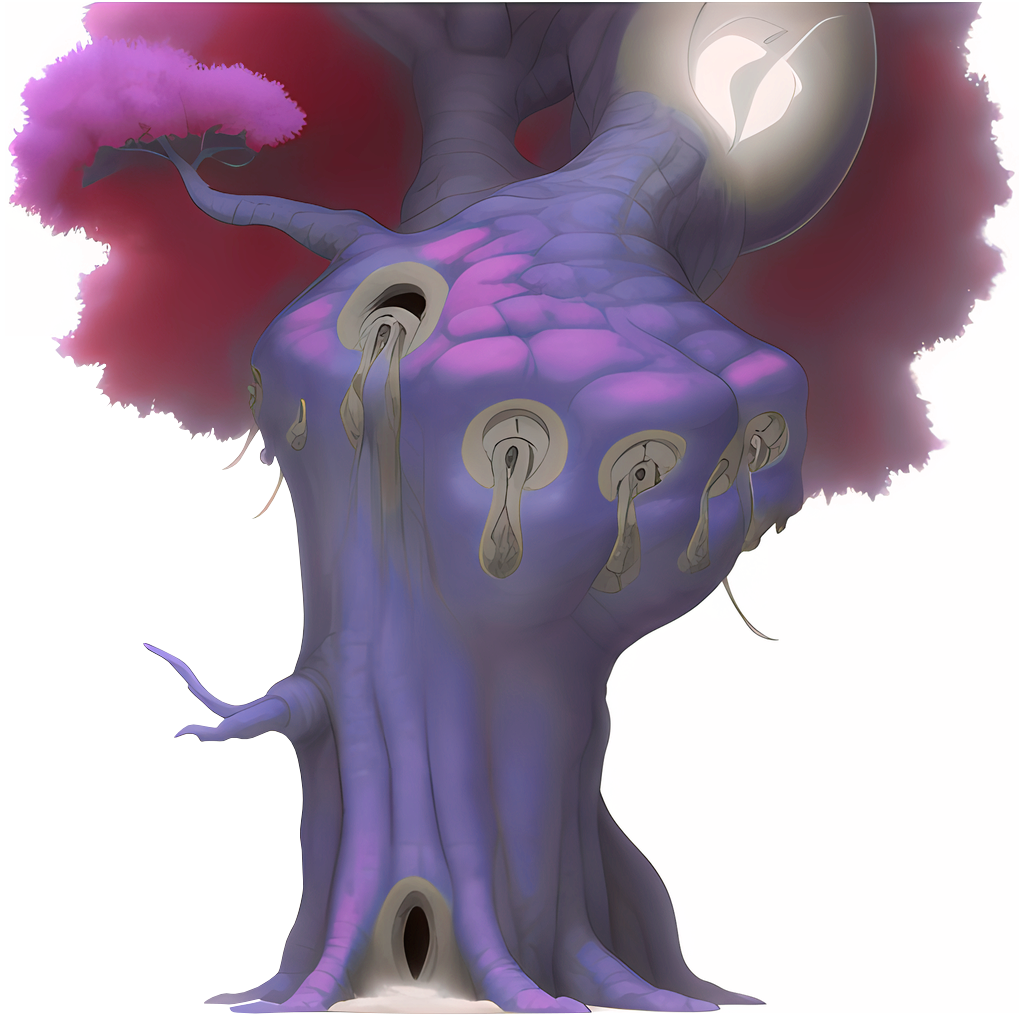
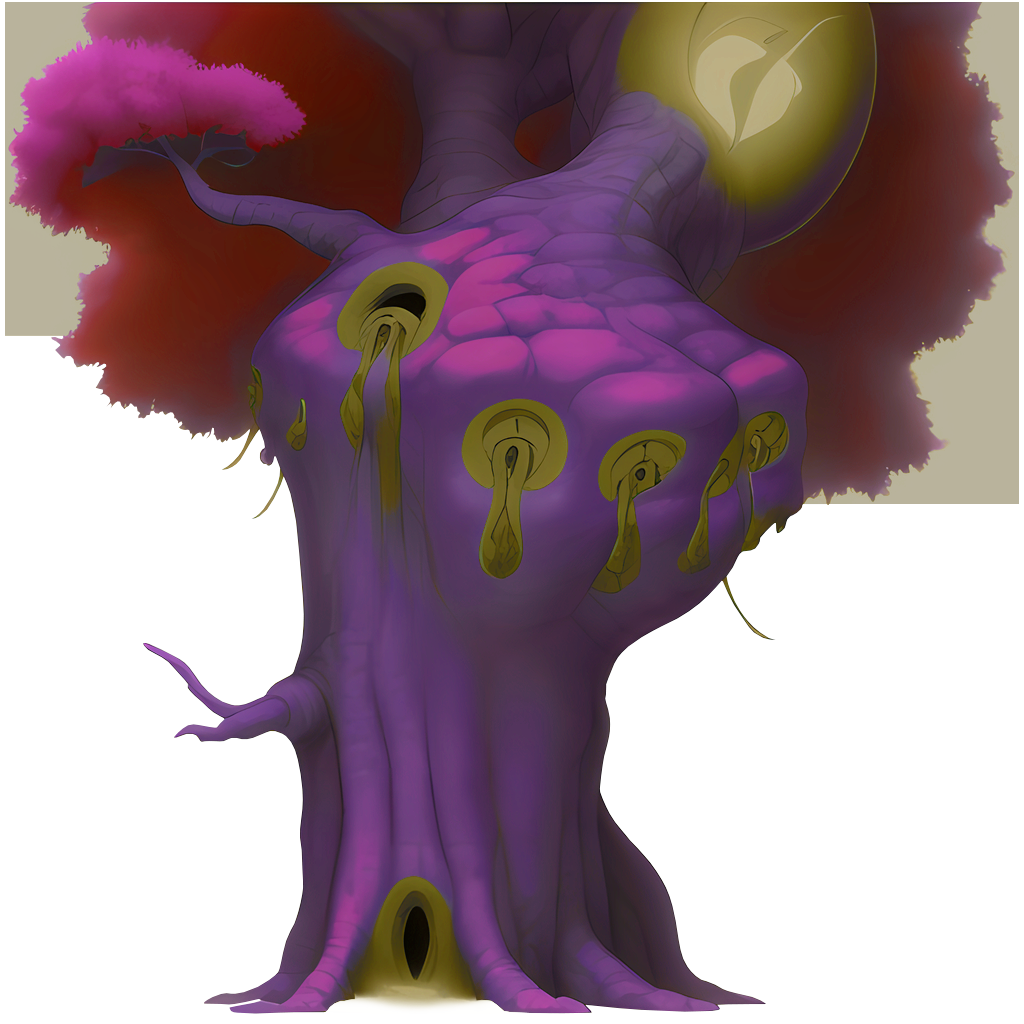
More Scene4 stuff

diff --git a/scene4.js b/scene4.js
@@ -112,12 +112,13 @@ class Scene4 extends Phaser.Scene {
                 this.scene.start('Scene3');
             });
         });
-        // this.physics.add.overlap(player, triggerPlatform, () => {
-        //     this.cameras.main.fadeOut(500);
-        //     this.cameras.main.once('camerafadeoutcomplete', () => {
-        //         this.scene.start('Scene2');
-        //     });
-        // });
+        this.physics.add.overlap(player, triggerPlatform, () => {
+            player.setAlpha(0);
+            this.cameras.main.fadeOut(500);
+            this.cameras.main.once('camerafadeoutcomplete', () => {
+                this.scene.start('Ending');
+            });
+        });
         this.physics.add.collider(player, platforms, function(player, platform) {
             if (player.anims.currentAnim.key === 'drill' && platform.texture.key === 'breakableGround') {
                 timer++;
@@ -130,8 +131,8 @@ class Scene4 extends Phaser.Scene {
         this.physics.add.collider(bigLasers, bigLasers);
         this.physics.add.collider(bigLasers, bigLasers, function(bigLaser) {bigLaser.setVelocityX(0), bigLaser.setAcceleration(0)});
 
-        //for (let i = -2; i < 4; i++) {triggerPlatformBack.create(i * 150, 790, 'platform').setScale(1).setAlpha(0).setDepth(0.2);}
-        //for (let i = 9.5; i < 15; i++) {triggerPlatform.create(i * 150, 790, 'platform').setScale(1).setAlpha(0).setDepth(0.2);}
+        for (let i = -2; i < 4; i++) {triggerPlatformBack.create(i * 150, 790, 'platform').setScale(1).setAlpha(0).setDepth(0.2);}
+        for (let i = 10; i < 20; i++) {triggerPlatform.create(i * 150, 790, 'platform').setScale(1).setAlpha(0).setDepth(0.2);}
         for (let i = 0; i < 3; i++) {this.add.image(i * 1024, 300, 'sky').setScrollFactor(0.1).setDepth(-1);}
         for (let i = 0; i < 8; i++) {this.add.image(i * 800, 500, 'skyOverlay').setScrollFactor(0.1).setScale(2).setAlpha(1).setDepth(-1).setTint(Phaser.Display.Color.GetColor(100, 125, 250));}
 
@@ -170,12 +171,14 @@ class Scene4 extends Phaser.Scene {
         //platforms.create(800, 650, 'platform').setScale(0.8).refreshBody().setDepth(0.2);
         //platforms.create(880, 650, 'platform').setScale(0.8).refreshBody().setDepth(0.2);
 
-        for (let i = 0.3; i < 4; i++) {platforms.create(i * 512, 755, 'ground').setScale(1).refreshBody().setDepth(0.2);}
+        for (let i = 0.3; i < 4.3; i++) {platforms.create(i * 512, 755, 'ground').setScale(1).refreshBody().setDepth(0.2);}
 
+        platforms.create(1620, 460, 'platform').setScale(0.8).refreshBody().setDepth(2).setAlpha(0);
         this.add.image(-370, 185, 'tree').setScale(0.55).setDepth(-0.2).setScrollFactor(1).setAlpha(1).setTint(Phaser.Display.Color.GetColor(200, 200, 200));
         //this.add.image(340, 463, 'tree').setScale(0.8).setDepth(0.21).setTint(Phaser.Display.Color.GetColor(230, 230, 230));
         this.add.image(937.5, 470, 'tree').setScale(0.65).setDepth(-0.2).setScrollFactor(0.8).setTint(Phaser.Display.Color.GetColor(180, 180, 180));
-        this.add.image(1370, -190, 'megaTree').setScale(1.75).setDepth(0.2).setScrollFactor(1).setAlpha(1).setTint(Phaser.Display.Color.GetColor(140, 140, 140));
+        this.add.image(2050, -188, 'megaTree').setScale(1.75).setDepth(0.189).setScrollFactor(1).setAlpha(1).setTint(Phaser.Display.Color.GetColor(180, 130, 180));
+        this.add.image(2050, -188, 'megaTreeCover').setScale(1.75).setDepth(0.199).setScrollFactor(1).setAlpha(1).setTint(Phaser.Display.Color.GetColor(180, 130, 180));
 
         for (let i = -2; i < 16; i++) {this.add.image(i * 233.4, 650, 'grass').setScale(0.3).setDepth(-0.2).setScrollFactor(0.9).setTint(Phaser.Display.Color.GetColor(230, 230, 230));}
 

diff --git a/common.js b/common.js
@@ -5,7 +5,7 @@ let sound_thunder, sound_laserHit, sound_mushroomJump, sound_titleTheme, sound_l
 let canDoubleJump = true, isDrilling = false, jKeyDownTime = 0, lives = 99, timer = 0, hasJumped = true;
 let scene, gameOverImage, randomText, emitterSpeedX;
 let damageTint, startColor, endColor,keyA, keyD, keyJ, keyF, keyK, keyW, keyUP, keySpace, keyP;
-let knockbackForce = 500, knockbackDirection, megaTree;
+let knockbackForce = 500, knockbackDirection, megaTree, megaTreeCover;
 let enemyLives = 3, eneweeLives = 3, eneweeGroup;
 let lightning, delayLightningFirt, delayLightning, airPlatform, laser, jumpshrooms;
 let isPaused = false, pauseText, pauseOverlay, distance;

diff --git a/preload.js b/preload.js
@@ -29,6 +29,7 @@ class Preload extends Phaser.Scene {
         this.load.image('beeIcon', 'assets/beeIcon.png');                       this.load.audio('mushroomJump', 'assets/audio/mushroomJump.mp3');
         this.load.audio('levelTheme', 'assets/audio/levelTheme.mp3');           this.load.audio('enemyEnraged', 'assets/audio/enemyEnraged.mp3');
         this.load.audio('eneweeAttack', 'assets/audio/eneweeAttack.mp3');       this.load.image('megaTree', 'assets/megaTree.png');
+        this.load.image('megaTreeCover', 'assets/megaTreeCover.png');
 
     }
 

diff --git a/index.html b/index.html
@@ -21,7 +21,7 @@
             const config = {
                 type: Phaser.AUTO, width: 1280, height: 720,
                 physics: {default: 'arcade', 
-                arcade: {fixedStep: false, gravity: { y: 1200 }, debug: false}},
+                arcade: {fixedStep: false, gravity: { y: 1200 }, debug: true}},
                 scale: {mode: Phaser.Scale.FIT, autoCenter: Phaser.Scale.CENTER_BOTH},
                 scene: [Preload, Pause, First, Title, Scene1, Scene2, Scene3, Scene4, Ending, Test]};
             const game = new Phaser.Game(config);
